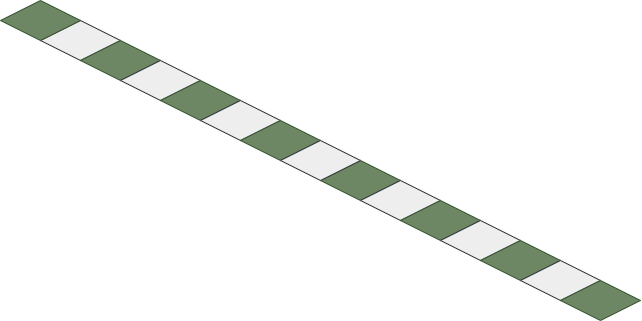
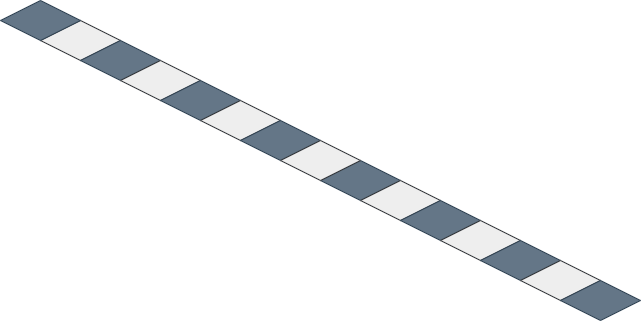
Update draw background

diff --git a/src/Object.cpp b/src/Object.cpp
@@ -18,17 +18,6 @@ Object::Object(float x, float y, int d, float speed, TextureHolder *mTextures, O
     this->type = type;
 }
 
-Vector2 Object::convertCar2IsoVector(Vector2 Cartesian) {
-    Vector2 isometricVector;
-    isometricVector.x = Cartesian.x - Cartesian.y + SCREEN_WIDTH/2;
-    // if (Cartesian.x > 0)
-    //     Cartesian.y += Cartesian.x/2;
-    // else if (Cartesian.x == 0)
-    //     Cartesian.y /= 2;
-    isometricVector.y = (Cartesian.x + Cartesian.y)/2;
-    return isometricVector;
-}
-
 Car::Car(int x, int y, int d) : Object(x, y, d, Objects::Car) {
 }
 
@@ -87,7 +76,7 @@ void Dinosaur::drawThis() {
         // UpdateTexture(inverseTexture, pixels);
         // UnloadImageColors(pixels);
     }
-    Vector2 pos = this->convertCar2IsoVector({ this->mX, this->mY });
+    Vector2 pos = convertCar2IsoVector({ this->mX, this->mY });
     DrawTextureV(texture, pos, WHITE);
     // DrawRectangle(this->mX, this->mY, texture.width, texture.height, RED);
 }
@@ -112,7 +101,7 @@ void Car::drawThis() {
         // UpdateTexture(inverseTexture, pixels);
         // UnloadImageColors(pixels);
     }
-    Vector2 pos = this->convertCar2IsoVector({ this->mX, this->mY - 10.0f });
+    Vector2 pos = convertCar2IsoVector({ this->mX, this->mY - 10.0f });
     DrawTextureV(texture, pos, WHITE);
     // DrawRectangle(this->mX, this->mY, texture.width, texture.height, RED);
 }
@@ -137,7 +126,7 @@ void Truck::drawThis() {
         // UpdateTexture(inverseTexture, pixels);
         // UnloadImageColors(pixels);
     }
-    Vector2 pos = this->convertCar2IsoVector({ this->mX, this->mY - 20.0f });
+    Vector2 pos = convertCar2IsoVector({ this->mX, this->mY - 20.0f });
     DrawTextureV(texture, pos, WHITE);
     // DrawRectangle(this->mX, this->mY, texture.width, texture.height, RED);
 }
@@ -162,7 +151,7 @@ void Bird::drawThis() {
         // UpdateTexture(inverseTexture, pixels);
         // UnloadImageColors(pixels);
     }
-    Vector2 pos = this->convertCar2IsoVector({ this->mX, this->mY });
+    Vector2 pos = convertCar2IsoVector({ this->mX, this->mY });
     DrawTextureV(texture, pos, WHITE);
     // DrawRectangle(this->mX, this->mY, texture.width, texture.height, RED);
 }
@@ -189,7 +178,7 @@ void Obstacle::drawThis() {
     //     // UpdateTexture(inverseTexture, pixels);
     //     // UnloadImageColors(pixels);
     // }
-    Vector2 pos = this->convertCar2IsoVector({ this->mX, this->mY });
+    Vector2 pos = convertCar2IsoVector({ this->mX, this->mY });
     DrawTextureV(texture, pos, WHITE);
     // DrawRectangle(this->mX, this->mY, texture.width, texture.height, RED);
 }

diff --git a/src/Global.h b/src/Global.h
@@ -5,6 +5,7 @@
 #include <random>
 #include <vector>
 #include <fstream>
+#include <raygui.h>
 using namespace std;
 
 // Global variables
@@ -21,3 +22,26 @@ const int MAX_SPAWN_TIME = 5;
 const float BLOCK_SIZE = 40.0f;
 const int MAP_WIDTH = 30;
 const int LANE_COUNT = 3;
+
+// Global functions
+Vector2 convertCar2IsoVector(Vector2 Cartesian) {
+    Vector2 isometricVector;
+    isometricVector.x = Cartesian.x - Cartesian.y + SCREEN_WIDTH/2;
+    // if (Cartesian.x > 0)
+    //     Cartesian.y += Cartesian.x/2;
+    // else if (Cartesian.x == 0)
+    //     Cartesian.y /= 2;
+    isometricVector.y = (Cartesian.x + Cartesian.y)/2;
+    return isometricVector;
+}
+
+// Vector2 convertCar2IsoVector(float mX, float mY) {
+//     Vector2 isometricVector;
+//     isometricVector.x = mX - mY + SCREEN_WIDTH/2;
+//     // if (Cartesian.x > 0)
+//     //     Cartesian.y += Cartesian.x/2;
+//     // else if (Cartesian.x == 0)
+//     //     Cartesian.y /= 2;
+//     isometricVector.y = (mX + mY)/2;
+//     return isometricVector;
+// }

diff --git a/src/Program.cpp b/src/Program.cpp
@@ -22,6 +22,10 @@ Program::Program() : mStateStack(State::Context(mTextures = new TextureHolder(),
 
     mPlayer->init(&mTextures->get(Textures::Player));
     mStateStack.pushState(States::Game);
+    mTextures->load(Textures::Plain, "../asset/object/road_600x300_1");
+    mTextures->load(Textures::Road, "../asset/object/road_600x300_2");
+    mTextures->load(Textures::Jungle, "../asset/object/grass_600x300_1");
+
     mTextures->load(Textures::Car_left, "../asset/object/vehicle_car_left.png");
     mTextures->load(Textures::Car_right, "../asset/object/vehicle_car_right.png");
     mTextures->load(Textures::Truck_left, "../asset/object/vehicle_truck_left.png");

diff --git a/src/Lanes/RoadLane.cpp b/src/Lanes/RoadLane.cpp
@@ -1,5 +1,4 @@
 #include "RoadLane.h"
-#include "../Global.h"
 
 RoadLane::RoadLane(TextureHolder *textures) : Lane(textures) {}
 
@@ -7,4 +6,8 @@ RoadLane::~RoadLane() {}
 
 void RoadLane::drawThis() {
     DrawRectangle(0, SCREEN_HEIGHT - mY, GetScreenWidth(), 100, LIGHTGRAY);
+
+    Texture2D texture = this->mTextures->get(Textures::Road);
+    Vector2 pos = convertCar2IsoVector({ 0.0f, this->mY });
+    DrawTextureV(texture, pos, WHITE);
 }

diff --git a/src/Object.h b/src/Object.h
@@ -25,7 +25,6 @@ public:
 	// set up obstacle
 	virtual Objects::ID getType();
 	int getDirection();
-	Vector2 convertCar2IsoVector(Vector2);
 	Object(float x, float y, int d, Objects::ID type);
 	Object(float x, float y, int d, float speed, TextureHolder *mTextures, Objects::ID type);
 	virtual void updateThis(float dt);

diff --git a/src/Lanes/JungleLane.cpp b/src/Lanes/JungleLane.cpp
@@ -6,4 +6,8 @@ JungleLane::~JungleLane() {}
 
 void JungleLane::drawThis() {
     DrawRectangle(0, SCREEN_HEIGHT - mY, GetScreenWidth(), 100, GREEN);
+
+    Texture2D texture = this->mTextures->get(Textures::Jungle);
+    Vector2 pos = convertCar2IsoVector({ 0.0f, this->mY });
+    DrawTextureV(texture, pos, WHITE);
 }

diff --git a/src/Lanes/PlainLane.cpp b/src/Lanes/PlainLane.cpp
@@ -6,4 +6,8 @@ PlainLane::~PlainLane() {}
 
 void PlainLane::drawThis() {
     DrawRectangle(0, SCREEN_HEIGHT - mY, GetScreenWidth(), 100, LIME);
+    
+    Texture2D texture = this->mTextures->get(Textures::Plain);
+    Vector2 pos = convertCar2IsoVector({ 0.0f, this->mY });
+    DrawTextureV(texture, pos, WHITE);
 }

diff --git a/src/ResourceIdentifiers.hpp b/src/ResourceIdentifiers.hpp
@@ -19,6 +19,9 @@ namespace Textures {
         None,
         GameBackground,
         PausedBackground,
+        Road,
+        Jungle,
+        Plain,
         Player,
         Car_left,
         Car_right,

diff --git a/src/Lanes/JungleLane.h b/src/Lanes/JungleLane.h
@@ -1,6 +1,7 @@
 #pragma once
 
 #include "../Lane.hpp"
+// #include "../Global.h"
 
 class JungleLane : public Lane {
 private:

diff --git a/src/Lanes/PlainLane.h b/src/Lanes/PlainLane.h
@@ -1,6 +1,7 @@
 #pragma once
 
 #include "../Lane.hpp"
+// #include "../Global.h"
 
 class PlainLane : public Lane {
 private:

diff --git a/src/Lanes/RoadLane.h b/src/Lanes/RoadLane.h
@@ -1,6 +1,7 @@
 #pragma once
 
 #include "../Lane.hpp"
+// #include "../Global.h"
 
 class RoadLane : public Lane {
 private:

diff --git a/src/Lane.cpp b/src/Lane.cpp
@@ -1,5 +1,4 @@
 #include "Lane.hpp"
-#include "Global.h"
 
 #include <iostream>
 
